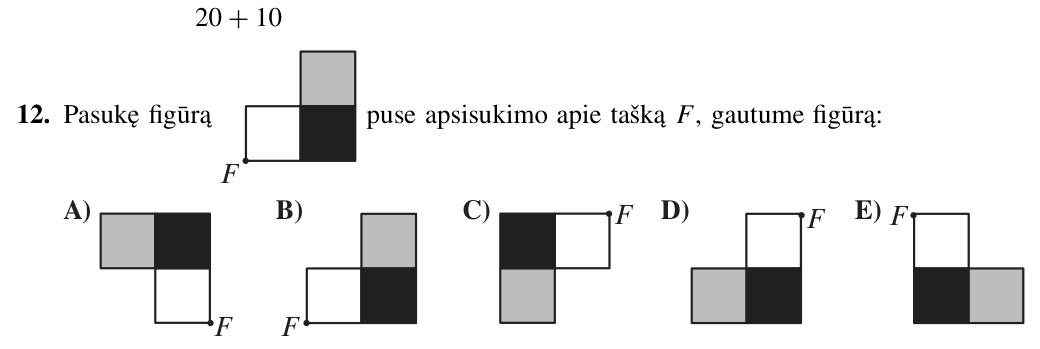
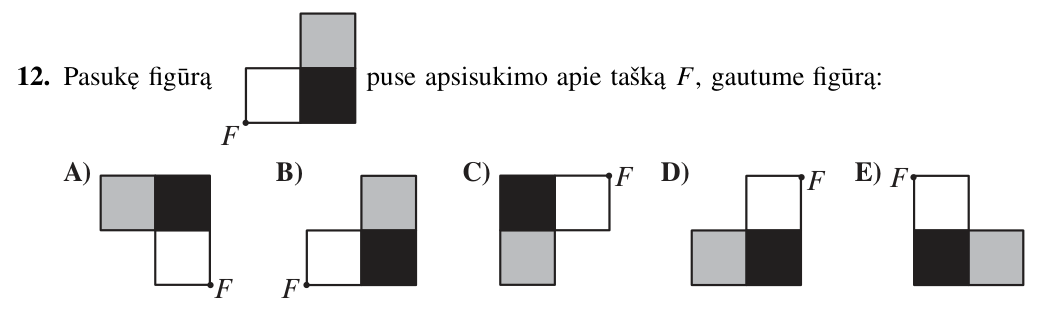
Loop 196: paint out the last two neighbour numbers (2017-14, 2010-12)
FORCE_MASK in _recrop.py for words inside a drawing's label margin that
belong to the previous question. sw.js FIGS v8.

diff --git a/sw.js b/sw.js
@@ -3,7 +3,7 @@
    the next load, offline still opens the app. Figures (png): cache-first,
    filled on demand → a paper the kid has opened once works offline. */
 const SHELL = "kengura-shell-v2";
-const FIGS = "kengura-figs-v7";   // bump whenever a figure PNG is replaced (cache-first!)
+const FIGS = "kengura-figs-v8";   // bump whenever a figure PNG is replaced (cache-first!)
 const SHELL_URLS = ["./", "kengura.html", "kengura-archive.js", "manifest.webmanifest", "icon.svg"];
 
 self.addEventListener("install", e => {

diff --git a/_recrop.py b/_recrop.py
@@ -96,6 +96,10 @@ def locate(doc, n, old):
         return page, col, hr, nxt
     return None
 
+# words outside the question's band that sit within a drawing's label margin
+# but belong to the previous question (checked by eye)
+FORCE_MASK = {('2017', 14): {'9818192'}, ('2010', 12): {'20', '+', '10'}}
+
 MANUAL = {  # (year, num): (page index, clip) – picture spread over neighbouring questions
     ('2003', 5): (4, (71, 308, 469, 439)),
 }
@@ -165,7 +169,8 @@ def crop(pdf, n, old, year=None):
         r = fitz.Rect(w[:4])
         if not clip.intersects(r): continue
         outside = r.y1 <= lo + 1 or r.y0 >= hi
-        if outside and not any(o.intersects(r) for o in own): masks.append(r + (-1, -1, 1, 1))
+        forced = outside and w[4] in FORCE_MASK.get((year, n), ())
+        if outside and (forced or not any(o.intersects(r) for o in own)): masks.append(r + (-1, -1, 1, 1))
     for c in comps:
         mid = (c.y0 + c.y1) / 2
         if clip.intersects(c) and not (lo - 2 <= mid < hi + 2) and not any(o.contains(c) for o in own):
